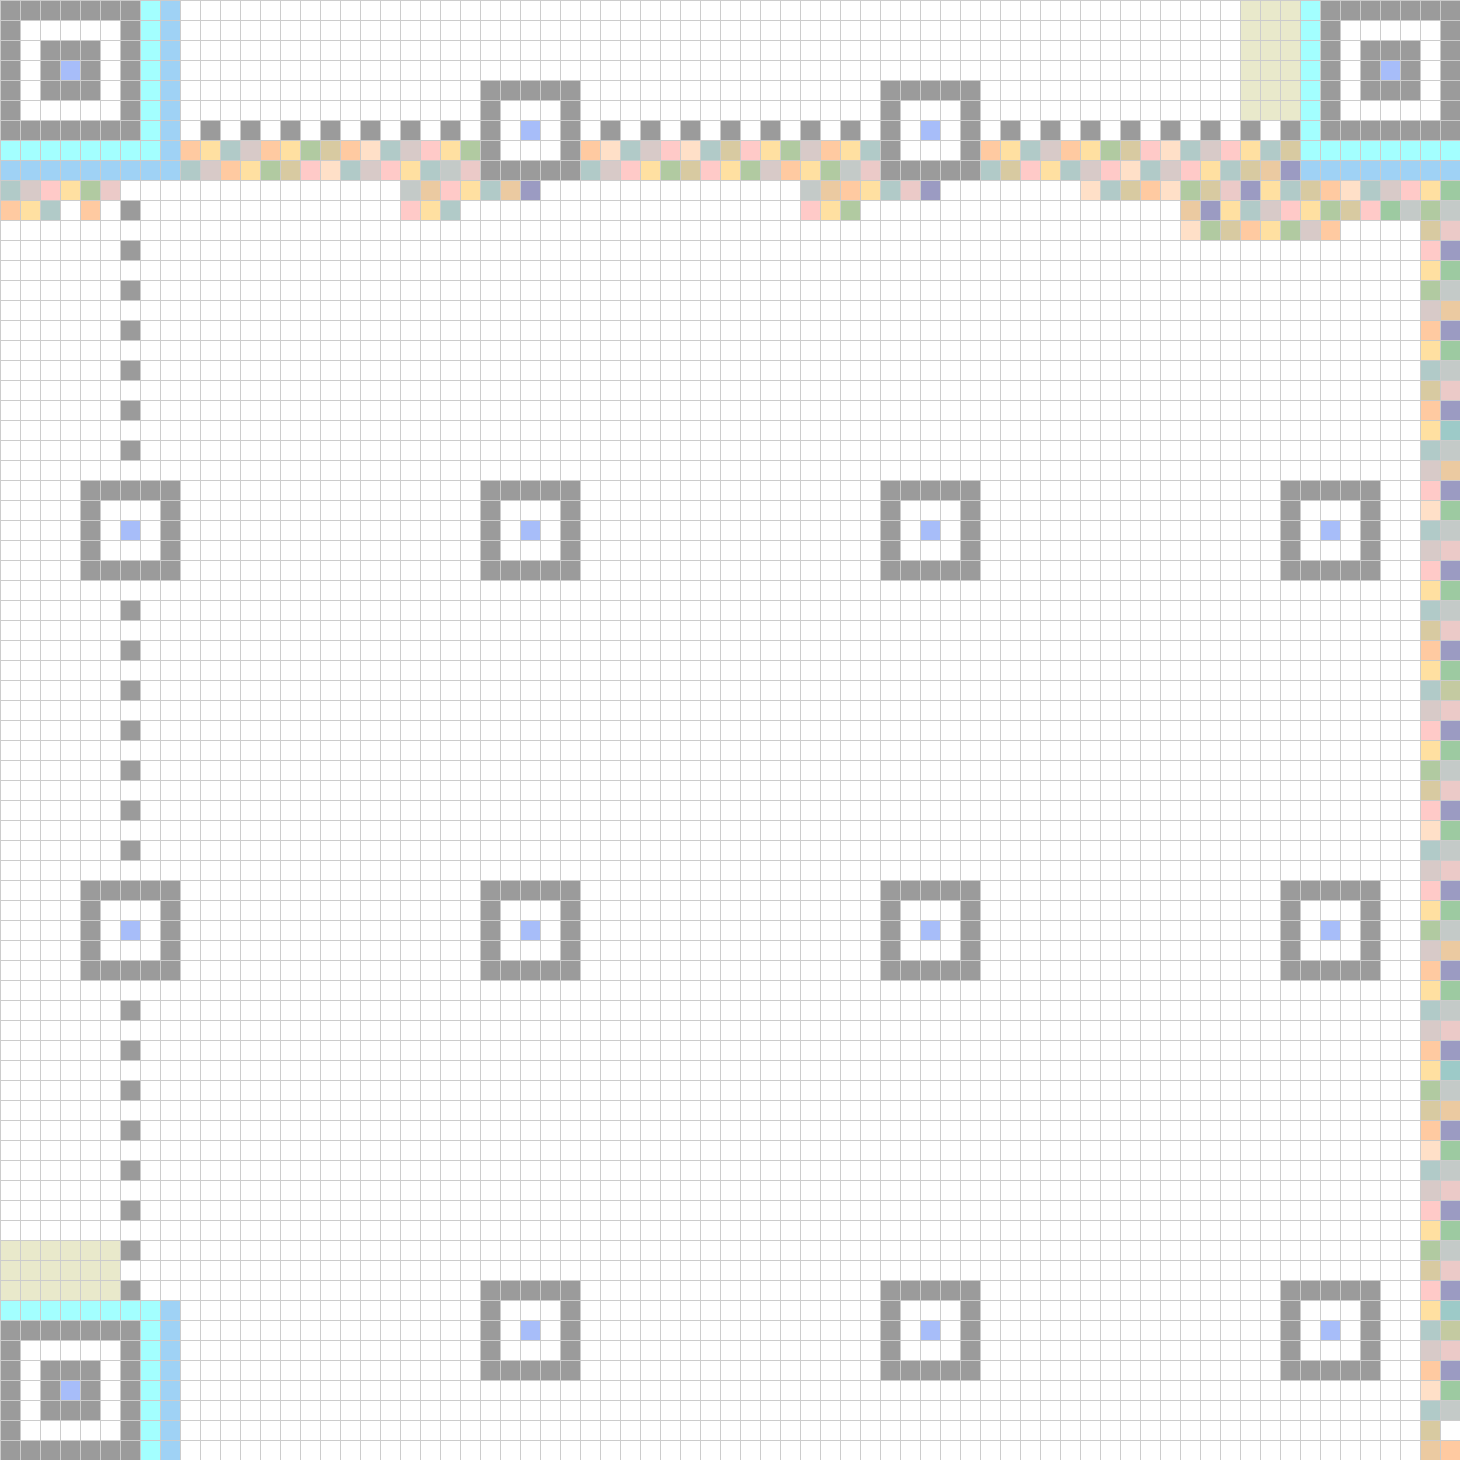
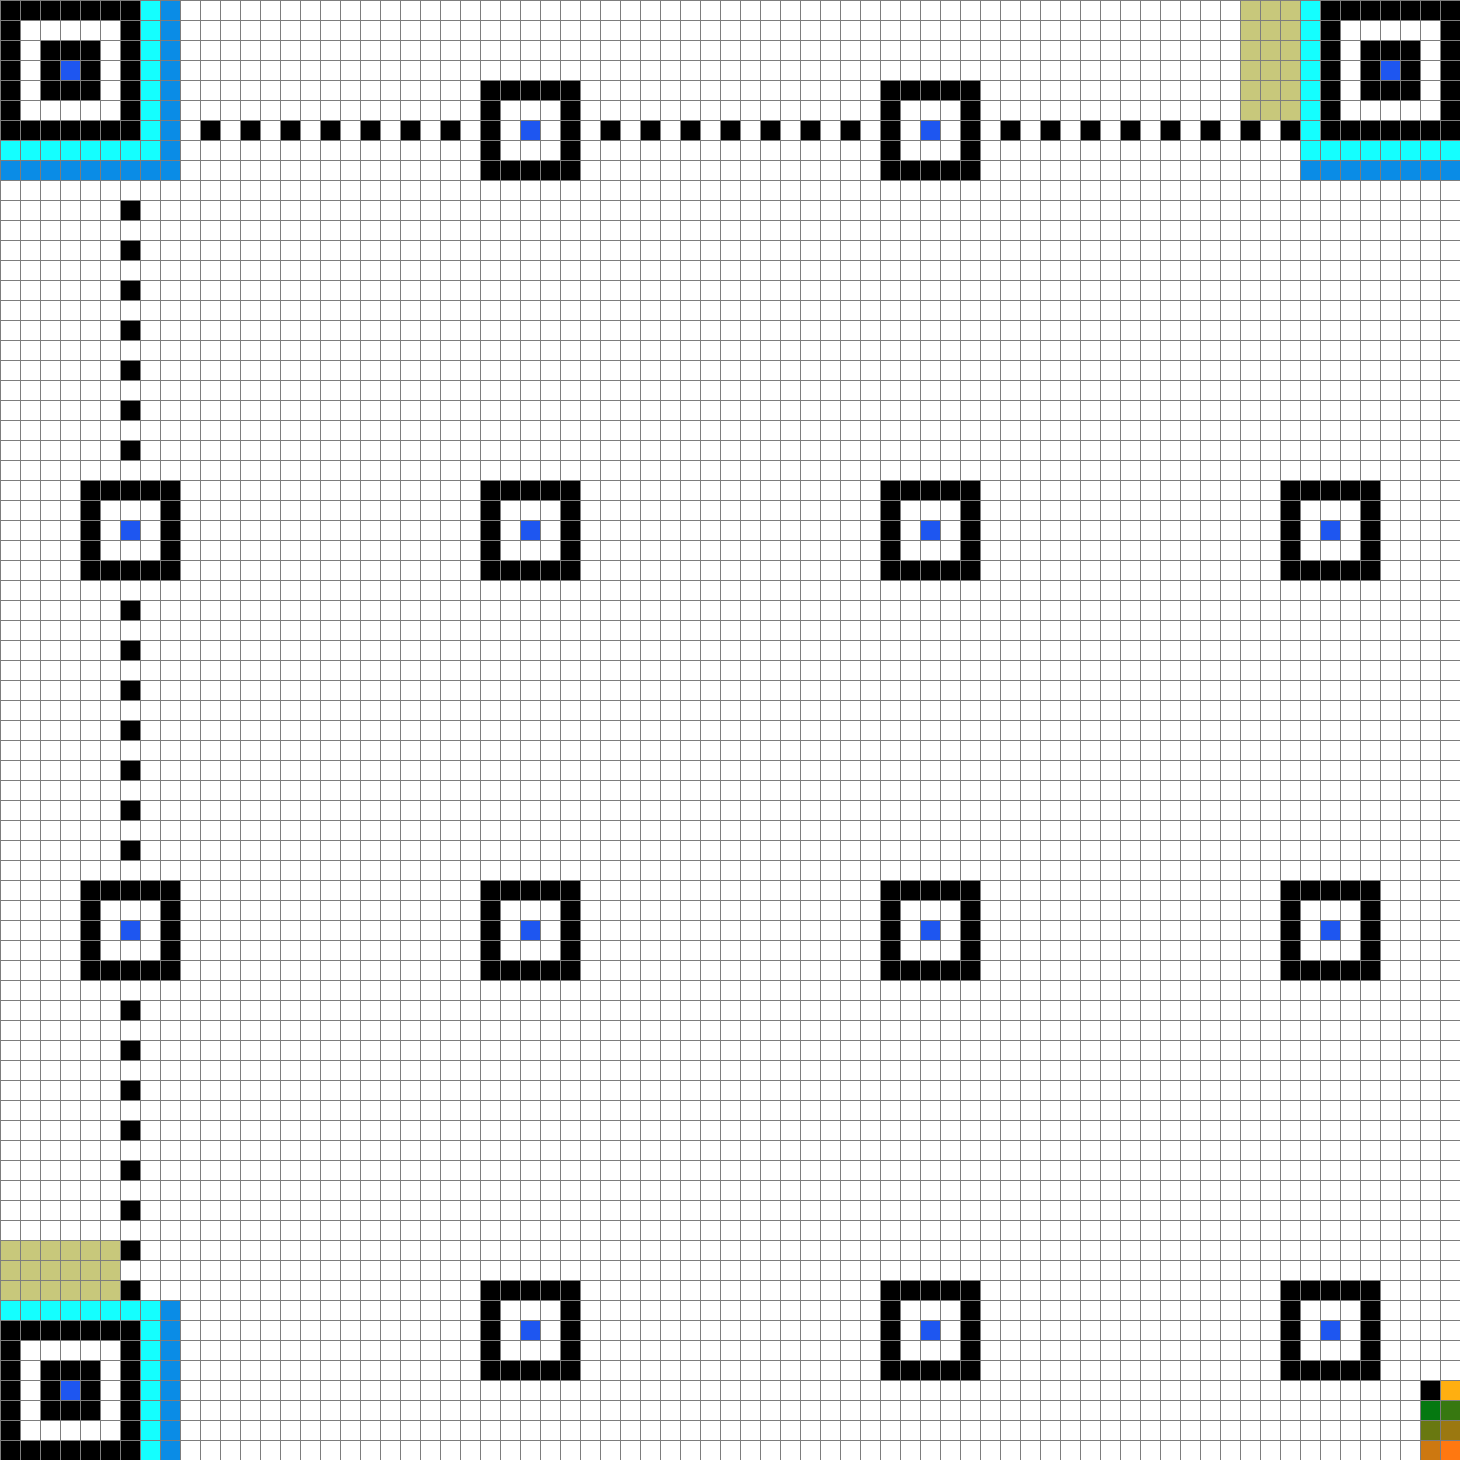
use bit flags

Changed region(s): [[0.0, 0.0, 1.0, 1.0]]

diff --git a/src/qr_encoder/qr.rs b/src/qr_encoder/qr.rs
@@ -4,6 +4,7 @@ use qr_encoder::cell::{
     CellType,
     Color,
     PlotPoint,
+    CellContext,
     CellFlow
 };
 use qr_encoder::util::{set_color};
@@ -29,6 +30,21 @@ pub enum Direction {
     Downwards,
     Unique(Box<Direction>)
 }
+
+pub enum EncoderEvent {
+    ZigZag, // normal behavior
+    OffEdge, // hit's an edge.
+    FinderBlock, // hits the finder
+    TracerBlock, // tracer
+    AlignmentBlock, // alignment
+    EndOfEncode // etc
+}
+
+
+const CELL_INVALID: u8 = 0;
+const CELL_FIXTURE: u8 = 1;
+const CELL_AVAILABLE: u8 = 3;
+const CELL_MIXED: u8 = 2;
 
 impl QROptions {
     pub fn apply_version_information_areas(&self, body: &mut Vec<Cell>) {
@@ -366,62 +382,175 @@ impl QR {
         current_pt.idx(self.config.size)
     }
 
-    fn check_point(&self, idx: usize) -> CellFlow {
-        let cell_ref = self.body.get(idx);
-
-        if cell_ref.is_none() {
-            return CellFlow::OutOfBounds
-        }
-
-        let cell = cell_ref.unwrap();
-        let pos = cell.point.idx(self.config.size);
-        match cell.module_type {
-            CellType::None => CellFlow::Available(pos),
-            _ => CellFlow::Unavailable
-        }
-    }
+    // fn check_point(&self, idx: usize) -> CellFlow {
+    //     let cell_ref = self.body.get(idx);
+    //
+    //     if cell_ref.is_none() {
+    //         return CellFlow::OutOfBounds
+    //     }
+    //
+    //     let cell = cell_ref.unwrap();
+    //     let pos = cell.point.idx(self.config.size);
+    //     match cell.module_type {
+    //         CellType::None => CellFlow::Available(pos),
+    //         _ => CellFlow::Unavailable
+    //     }
+    // }
 
     pub fn encode_chunk(&mut self, chunk: u8, position: usize) -> usize {
-        let mut current_pt = position;
+        let mut current_index = position;
         let row_length = self.config.size - 1;
+        let corners: [(isize, isize); 4] = [
+            (-1, 1),
+            (1, 1),
+            (-1, -1),
+            (1, -1)
+        ];
+
         for i in 0..8 {
+            let mut checking = true;
+            let mut current_point: Point = Point::as_point(current_index, self.config.size);
             let bit = chunk & (1 << i);
             let color = set_color(i);
-            // let did_encode = self.encode_bit(current_pt, bit, color);
+            let mut corner_idx = 0;
 
-            match self.check_point(current_pt) {
-                CellFlow::Available(pos) => {
-                    let mut cell = self.body.get_mut(pos).unwrap();
+            match self.body.get_mut(current_index) {
+                Some(cell) => {
+                    // println!("{:?}", cell);
                     cell.module_type = CellType::Message;
 
-                    if bit == 0 {
-                        cell.color = Color { r: color.r, g: color.g, b: color.b + 100 };
+                    if i == 7 {
+                        cell.color = Color { r: 0, g: 0, b: 0 };
                     } else {
                         cell.color = color;
                     }
                 },
-                CellFlow::Unavailable => {
-                    current_pt = (current_pt - 1) + row_length;
-                    println!("Unavailable");
-                    // current_pt = self.get_next_point(current_pt);
-                    continue;
-                    // handle changing flow
-                },
-                _ => {
-                    continue;
+                None => {
+                    println!("this should never happen {:?}", current_point);
+                }
+            }
+            let mut cell_context = 0;
+
+            let mut check_ahead = false;
+            while checking && corner_idx < 4 {
+                let corner = if check_ahead {
+                    check_ahead = false;
+                    let prev_corner = corners[corner_idx];
+                    if prev_corner.0 == -1 {
+                        (prev_corner.0 - 8, prev_corner.1)
+                    } else {
+                        (prev_corner.0 + 8, prev_corner.1)
+                    }
+                } else {
+                    corners[corner_idx]
+                };
+
+                let next_point = current_point >> corner;
+                let cell_state: u8 = 0;
+                if next_point.1 >= self.config.size {
+                    // off edge....
+                    current_index = current_index - 1;
+                    checking = false;
+                } else {
+                    let next_idx = next_point.idx(self.config.size);
+                    let cell_ref = self.body.get(next_idx);
+                    if cell_ref.is_none() {
+                        current_index = current_index - 1;
+                        break;
+                    }
+                    let cell = cell_ref.unwrap();
+
+                    println!("current_point: {:?}, next_point: {:?}, {:?}, corner: {}, cell_context: {}", current_point, next_point, cell, corner_idx, cell_context);
+                    match cell.module_type {
+                        CellType::None => {
+                            if corner_idx == 3 || corner_idx == 2 {
+                                current_index = current_index - 1;
+                            } else {
+                                current_index = next_idx;
+                            }
+                            checking = false;
+                        },
+
+                        CellType::Finder => {
+                            checking = false;
+                            current_index = current_index - 1;
+                        },
+
+                        CellType::Format => {
+                            corner_idx += 1;
+                        },
+
+                        CellType::Separator => {
+                            checking = false;
+                            current_index = current_index - 1;
+                        },
+
+                        CellType::Message => {
+                            cell_context = cell_context ^ (1 << corner_idx);
+                            corner_idx += 1;
+                        },
+
+                        CellType::Alignment => {
+                            corner_idx += 1;
+                            check_ahead = true;
+
+                            // if #4 of corners is a message block, then it's building upwards
+                            // if #2 of
+                            // notes for future matt:
+                            // have a way to get the context of the current position -
+                            // are the blocks being built in a particular direction when they encounter
+                            // few options for movement?
+                            // i.e. take a look at `corner` or maybe separate the north/south exams
+                        },
+
+                        _ => {
+                            corner_idx += 1;
+                        }
+                    }
                 }
             }
 
-            // if i % 2 == 0 {
-            //     current_pt = current_pt - 1;
-            // } else {
-            //     current_pt = current_pt - (self.config.size - 1);
+            if checking && corner_idx == 4 {
+                current_index = current_index - 1;
+            }
+
+            // if left_is_free_and_upper_left_is_free_then_go_left
+            // if left_is_free_and_lower_left_is_free_then_go_left
+            // let did_encode = self.encode_bit(current_pt, bit, color);
+
+            // match self.check_point(current_pt) {
+            //     CellFlow::Available(pos) => {
+            //         let mut cell = self.body.get_mut(pos).unwrap();
+            //         cell.module_type = CellType::Message;
+            //
+            //         if bit == 0 {
+            //             cell.color = Color { r: color.r, g: color.g, b: color.b + 100 };
+            //         } else {
+            //             cell.color = color;
+            //         }
+            //     },
+            //     CellFlow::Unavailable => {
+            //         current_pt = (current_pt - 1) + row_length;
+            //         println!("Unavailable");
+            //         // current_pt = self.get_next_point(current_pt);
+            //         continue;
+            //         // handle changing flow
+            //     },
+            //     _ => {
+            //         continue;
+            //     }
             // }
-            println!("current_pt: {}", current_pt);
-            current_pt = self.get_next_point(current_pt);
+            //
+            // // if i % 2 == 0 {
+            // //     current_pt = current_pt - 1;
+            // // } else {
+            // //     current_pt = current_pt - (self.config.size - 1);
+            // // }
+            // println!("current_pt: {}", current_pt);
+            // current_pt = self.get_next_point(current_pt);
         }
 
-        current_pt
+        current_index
     }
 
     pub fn setup(&mut self) {
@@ -446,5 +575,6 @@ impl QR {
         }
 
         println!("LENGTH IS {}, SIZE IS {}", self.body.len(), self.config.size);
+        println!("--- QR ENCODER READY FOR ENCODING ---");
     }
 }

diff --git a/src/main.rs b/src/main.rs
@@ -21,10 +21,10 @@ fn create_qr_image(qr: QR) {
             let (x, y, color) = pixel;
             if x % 20 == 0 || y % 20 == 0 {
                 // cell border
-                let rgb = Rgba { data: [125, 125, 125, 100] };
+                let rgb = Rgba { data: [125, 125, 125, 255] };
                 img.put_pixel(x, y, rgb);
             } else {
-                let rgb = Rgba { data: [color.r as u8, color.g as u8, color.b as u8, 100] };
+                let rgb = Rgba { data: [color.r as u8, color.g as u8, color.b as u8, 255] };
                 img.put_pixel(x, y, rgb);
             }
         }
@@ -45,8 +45,9 @@ fn main() {
     qr.setup();
 
     let sample = "\'It Was the Best of times, it was the Blurst of times??\'".to_string();
+    let small_sample = "s".to_string();
     let mut position = (qr.config.size * qr.config.size) - 1;
-    for s in sample.into_bytes().into_iter() {
+    for s in small_sample.into_bytes().into_iter() {
         position = qr.encode_chunk(s, position);
     }
 

diff --git a/src/qr_encoder/cell.rs b/src/qr_encoder/cell.rs
@@ -1,4 +1,4 @@
-use std::ops::{Add, Sub, Mul, Div};
+use std::ops::{Shr, Add, Sub, Mul, Div};
 
 #[derive(Copy, Clone, Debug)]
 pub struct Color {
@@ -16,8 +16,14 @@ pub enum CellType {
     DarkModule,
     VersionInformation,
     Format,
-    Free,
     Message,
+    None
+}
+
+#[derive(Debug)]
+pub enum CellContext {
+    Fixture(usize),
+    ValidCell(usize),
     None
 }
 
@@ -92,6 +98,22 @@ impl Div<usize> for Point {
 
     fn div(self, rhs: usize) -> Point {
         Point(self.0 - 1, self.1)
+    }
+}
+
+impl Shr<(isize, isize)> for Point {
+    type Output = Point;
+
+    fn shr(self, rhs: (isize, isize)) -> Point {
+        let (rx, ry) = rhs;
+        let x = (self.0 as isize) + rx;
+        let y = (self.1 as isize) + ry;
+
+        if x < 0 || y < 0 {
+            Point(0, 0)
+        } else {
+            Point(x as usize, y as usize)
+        }
     }
 }
 
